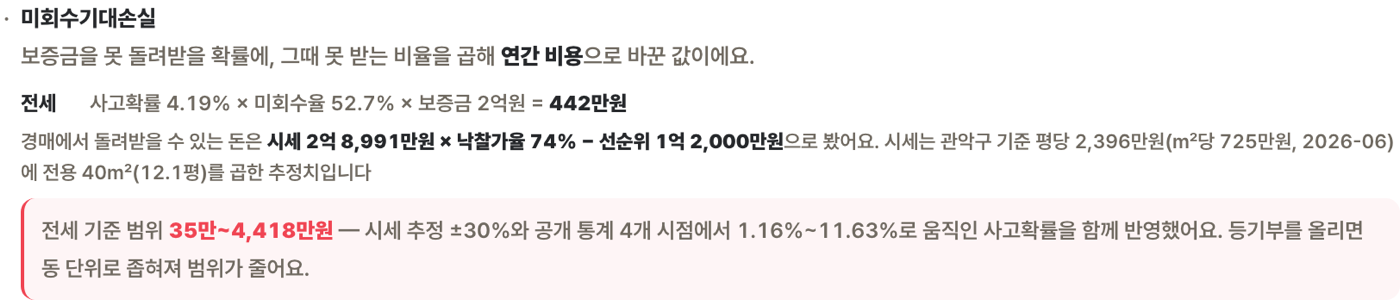
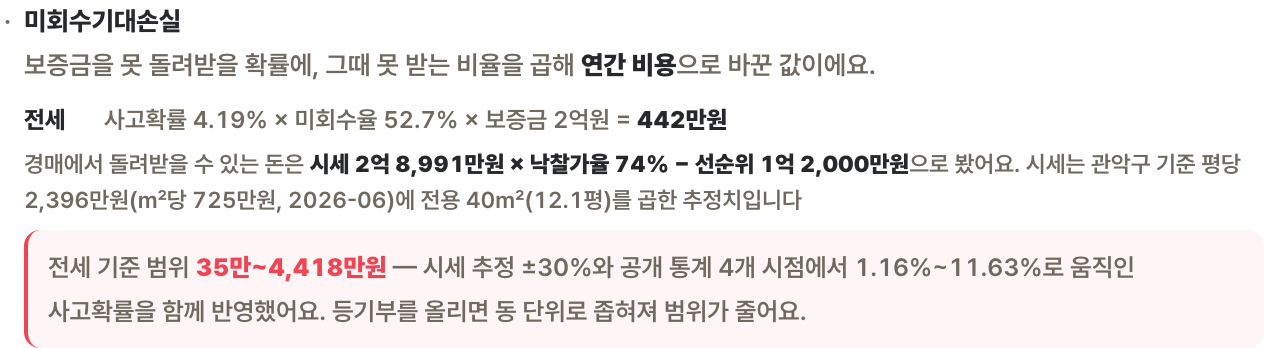
design: 아키텍처 도해를 브랜드 언어로 재설계 + 근거 그림을 읽히게 재촬영
계층을 나열하는 그림은 아무것도 주장하지 않는다. 이 프로젝트의 원칙 1은
"LLM은 계산하지 않는다"인데 기존 도해(회색 excalidraw 세로형)는 그걸 말하지
않았고, 배너의 KB 옐로우/웜 잉크와도 따로 놀았다.

새 도해는 그 원칙을 형태로 옮겼다.
- 가로 파이프라인: 등기부 → L1 → L2 → **L3** → 결론. 실선은 숫자를 만드는 경로다.
- L3만 굵은 테두리 + 브랜드 옐로우 상단 바 — 유일하게 숫자를 만드는 상자다.
- L4는 점선·투명·'선택' 칩. 없으면 문단만 빠진다는 것이 형태로 보인다.
- 범례가 실선/점선의 뜻을 명시한다.
- L0는 L3에 룰 JSON을 공급한다. spine과 sides가 **같은 그리드**를 쓴다 —
  flex로 두면 화살표 거터만큼 아래 열이 밀려 L0 화살표가 L2에 꽂힌다(실제로 그랬다).

근거 스크린샷(03)은 읽을 수 없었다. 원본이 넓어 840px로 축소되면 본문이 8px가 된다.
앱을 720px 뷰포트로 다시 띄워 632px 폭으로 재촬영하고 `width="632"`로 등배 표시한다.
못 읽는 그림은 그림이 아니다.

계층 표는 지웠다가 <details>로 되살렸다 — 이미지는 검색도 스크린리더도 안 되므로
텍스트 대안이 있어야 한다. alt에도 전체 흐름을 적었다.

diff --git a/README.md b/README.md
@@ -54,7 +54,7 @@
 
 ### 그 442만원의 출처까지 함께
 
-![근거](docs/screenshots/03-evidence.png)
+<img alt="근거 패널 — 사고확률 4.19% × 미회수율 52.7% × 보증금 2억원 = 442만원. 회수 예상액과 시세 추정 근거, 범위 35만~4,418만원을 함께 표시한다." src="docs/screenshots/03-evidence.png" width="632">
 
 $$E[Loss] = P(사고) \times LGD \times 보증금$$
 
@@ -77,8 +77,20 @@ $$E[Loss] = P(사고) \times LGD \times 보증금$$
 ## 어떻게 동작하는가
 
 <div align="center">
-<img src="diagrams/layers.png" alt="L0~L4 계층 구조" width="560">
+<picture>
+  <source media="(prefers-color-scheme: dark)" srcset="docs/screenshots/arch-dark.png">
+  <img alt="온전 아키텍처 — 등기부 PDF·소득·자산이 L1 문서 이해, L2 리스크 예측, L3 결정론 계산 엔진을 거쳐 결론으로 나온다. L0 룰 파이프라인이 L3에 룰 JSON을 공급하고, L4 에이전트는 결론에 문단을 덧붙이는 선택 경로다." src="docs/screenshots/arch-light.png" width="900">
+</picture>
 </div>
+
+가운데 굵은 상자 하나만 숫자를 만듭니다. **L3는 순수 함수고 AI가 아닙니다** — 의도된 설계입니다. 금융에서 숫자가 틀리면 안 되므로, 재현되지 않는 것에 계산을 맡기지 않습니다. LLM은 문서에서 읽고(L1 — 그마저도 지금은 텍스트 파싱입니다), 룰을 만들고(L0, 오프라인), 다 끝난 결과를 설명합니다(L4).
+
+점선으로 매달린 **L4는 꺼져도 됩니다.** 키가 없거나 공개 배포면 `None`이 오고 문단만 빠집니다. 화면도 숫자도 그대로입니다.
+
+<details>
+<summary>계층별 구현 — 표로 보기</summary>
+
+<br>
 
 | 계층 | 하는 일 | 구현 |
 |:---:|---|---|
@@ -88,11 +100,9 @@ $$E[Loss] = P(사고) \times LGD \times 보증금$$
 | **L3** | 세후 총비용 + E[Loss] + 등기부 등급 | 순수 함수. **AI 아님 — 의도된 설계** |
 | **L4** | 해석 문단, what-if 번역 | LLM. 실패하면 `None`이고 화면은 그대로 |
 
-> [!IMPORTANT]
-> **LLM에게 계산을 시키지 않는다.** 숫자와 판정은 결정론 계산 엔진(L3)과 공개통계 보정 모델(L2)이 냅니다.
-> LLM은 문서에서 읽고(L1), 파라미터를 조작하고(L4), 설명만 합니다. L4는 전부 선택 경로라 키가 없어도 화면은 그대로 돕니다.
-
 L1은 비전 LLM이 아닙니다. 원안([docs/design.md](docs/design.md))엔 그렇게 적혀 있지만 구현은 텍스트 파싱입니다. 계획과 구현이 갈라진 지점 전체는 [docs/architecture.md](docs/architecture.md) §1 표에 있습니다.
+
+</details>
 
 ## 문서 안내
 
